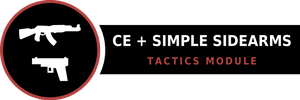
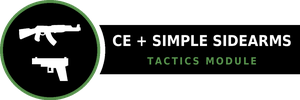
assets: recolored suite badges + EM-Metals badge (palette rebalance); docs: UPMM->MMP
Pick up the new suite palette badges + the EM-Metals badge; swap the retired
UPMM cross-link for More Mod Patches for Expanded Materials - Metals.

Claude-Session: https://claude.ai/code/session_01P8KGqMWXs1NiRZudGV5mNa

Changed region(s): [[0.0, 0.0, 0.36, 1.0], [0.48, 0.57, 0.87, 0.66]]

diff --git a/README.md b/README.md
@@ -39,7 +39,7 @@ Mods that make Combat Extended and Simple Sidearms run together smoothly.
 <table>
 <tr><th width="300">Mod</th><th width="540">What it does</th></tr>
 <tr><td width="300"><a href="https://github.com/eebette/Pawns-Optimize-Weapon-Quality"><img src="Media/Badge_POWQ.png" width="300" alt="Pawns Optimize Weapon Quality"></a></td><td width="540">Pawns will upgrade their held guns when a higher-quality copy is available.</td></tr>
-<tr><td width="300"><a href="https://github.com/eebette/Universal-Patch-for-More-Materials"><img src="Media/Badge_UPMM.png" width="300" alt="Universal Patch for More Materials"></a></td><td width="540">Adds materials from <a href="https://steamcommunity.com/sharedfiles/filedetails/?id=3055040889">More Materials</a> to non-vanilla recipes.</td></tr>
+<tr><td width="300"><a href="https://github.com/eebette/More-Mod-Patches-for-Expanded-Materials-Metals"><img src="Media/Badge_MMP.png" width="300" alt="Expanded Materials - Metals: Mod Patches"></a></td><td width="540">Extends <a href="https://steamcommunity.com/sharedfiles/filedetails/?id=3333419387">Expanded Materials - Metals</a> to modded buildings it doesn't cover.</td></tr>
 </table>
 
 ## FAQ
